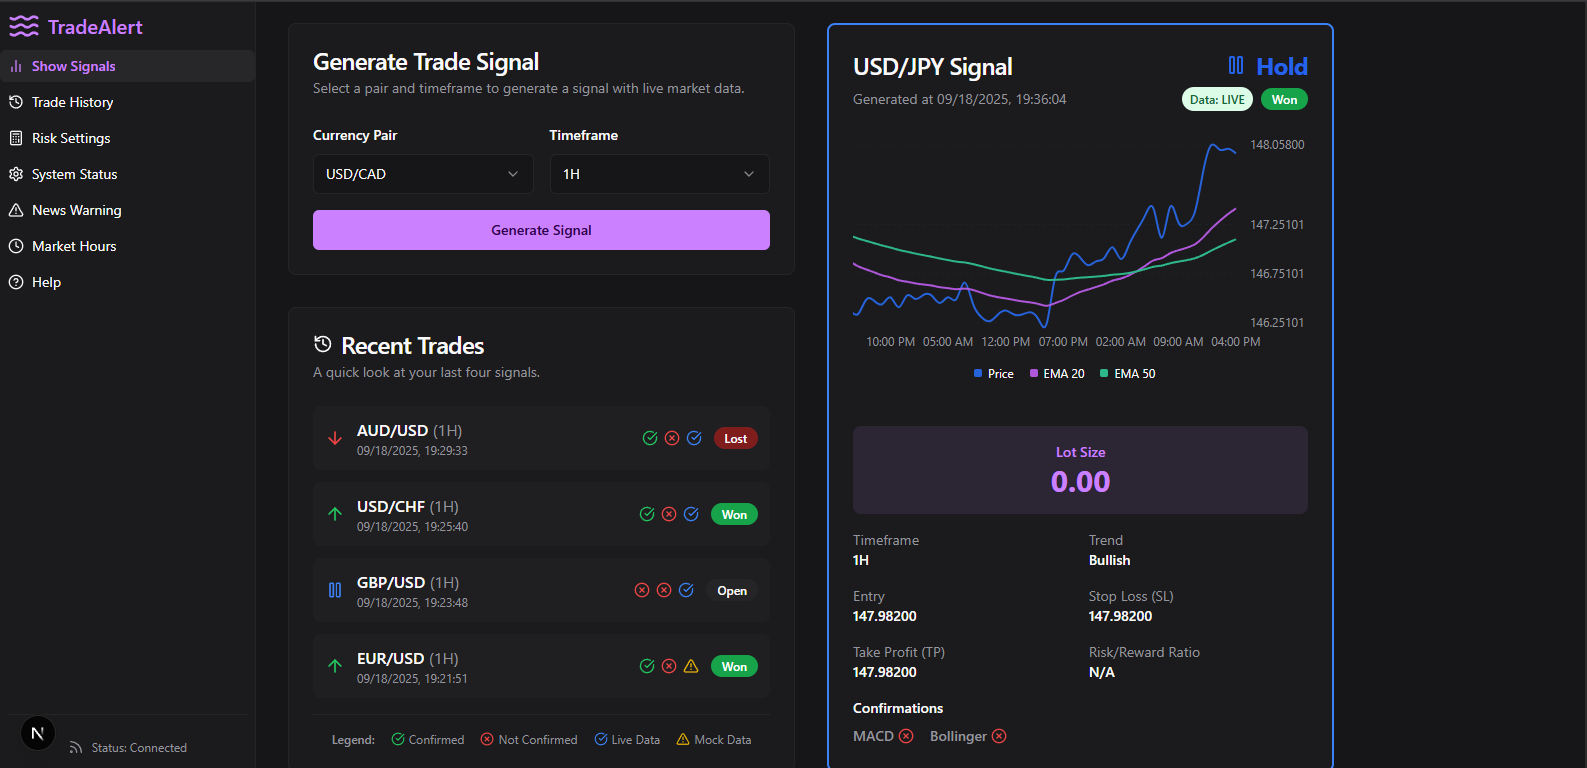
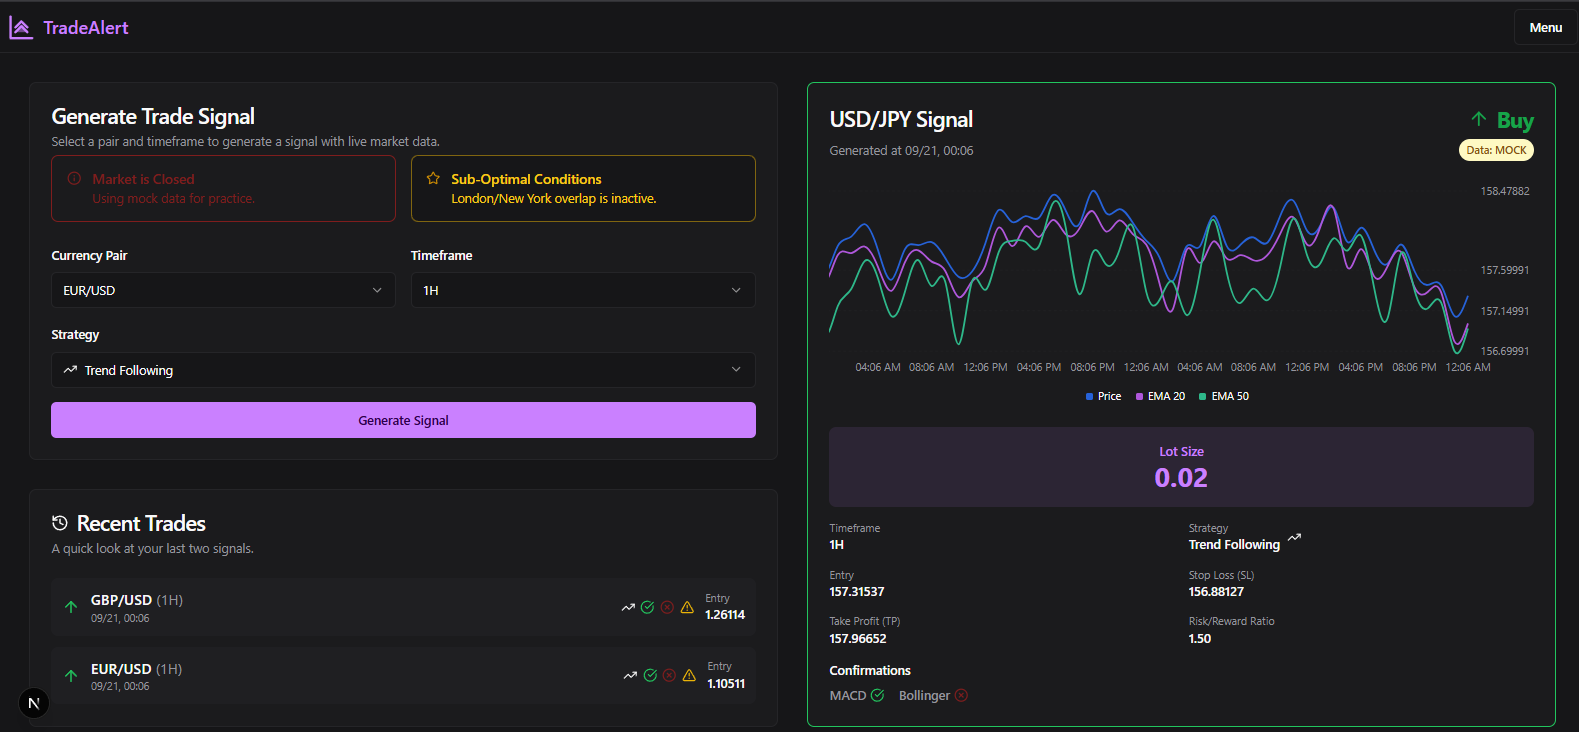
remove the option where user has to enter the api key on log in and allo

diff --git a/src/app/actions.ts b/src/app/actions.ts
@@ -18,8 +18,8 @@ const signalSchema = z.object({
   strategy: z.custom<StrategyId>(),
   accountBalance: z.coerce.number(),
   riskPercentage: z.coerce.number(),
-  geminiApiKey: z.string().min(1, "Gemini API Key is required."),
-  twelveDataApiKey: z.string().min(1, "Twelve Data API Key is required."),
+  geminiApiKey: z.string().optional(),
+  twelveDataApiKey: z.string().optional(),
   telegramChatId: z.string().optional(),
 });
 
@@ -86,13 +86,13 @@ export async function generateSignalAction(formData: FormData): Promise<{ data?:
 }
 
 const ApiKeySchema = z.object({
-  geminiApiKey: z.string().min(1, "Gemini API Key is required."),
+  geminiApiKey: z.string().optional(),
 });
 
 export async function getNewsEventsAction(data: { geminiApiKey?: string }): Promise<EconomicEvent[]> {
     const validated = ApiKeySchema.safeParse(data);
-    if (!validated.success) {
-        throw new Error("API Key is missing or invalid.");
+    if (!validated.success || !validated.data.geminiApiKey) {
+        throw new Error("A Gemini API Key is required for this feature. Please add it in the App Settings.");
     }
     
     try {
@@ -109,17 +109,17 @@ export async function getNewsEventsAction(data: { geminiApiKey?: string }): Prom
 
 const NewsSentimentActionSchema = z.object({
     currencyPair: z.string(),
-    geminiApiKey: z.string().min(1, "Gemini API Key is required."),
+    geminiApiKey: z.string().optional(),
 });
 
 export async function getNewsSentimentAction(data: { currencyPair: string, geminiApiKey?: string }): Promise<NewsSentimentOutput> {
     const validated = NewsSentimentActionSchema.safeParse(data);
-     if (!validated.success) {
-        throw new Error("Currency pair or API key is missing or invalid.");
+     if (!validated.success || !validated.data.geminiApiKey) {
+        throw new Error("A Gemini API Key is required for this feature. Please add it in the App Settings.");
     }
     
     try {
-        const sentiment = await getNewsSentiment(validated.data);
+        const sentiment = await getNewsSentiment(validated.data as { currencyPair: string, geminiApiKey: string });
         return sentiment;
     } catch (error) {
         console.error(`Error fetching news sentiment for ${validated.data.currencyPair}:`, error);

diff --git a/src/app/page.tsx b/src/app/page.tsx
@@ -1,44 +1,14 @@
 
 'use client';
 
-import { useState, useEffect } from 'react';
-import Dashboard from "@/components/dashboard";
-import { SettingsProvider, useSettings } from '@/components/settings-provider';
-import Setup from '@/components/setup';
-import { Skeleton } from '@/components/ui/skeleton';
-
-function App() {
-  const { settings, loaded } = useSettings();
-  const [isClient, setIsClient] = useState(false);
-
-  useEffect(() => {
-    setIsClient(true);
-  }, []);
-
-  if (!isClient || !loaded) {
-    return (
-        <div className="flex items-center justify-center min-h-screen bg-background">
-            <div className="w-full max-w-4xl p-8 space-y-8">
-                <Skeleton className="h-24 w-full" />
-                <div className="grid grid-cols-1 lg:grid-cols-2 gap-8">
-                    <Skeleton className="h-96 w-full" />
-                    <Skeleton className="h-96 w-full" />
-                </div>
-            </div>
-        </div>
-    );
-  }
-
-  const isConfigured = settings.geminiApiKey && settings.twelveDataApiKey;
-
-  return isConfigured ? <Dashboard /> : <Setup />;
-}
+import { SettingsProvider } from '@/components/settings-provider';
+import Dashboard from '@/components/dashboard';
 
 export default function Home() {
   return (
     <main>
         <SettingsProvider>
-            <App />
+            <Dashboard />
         </SettingsProvider>
     </main>
   );
